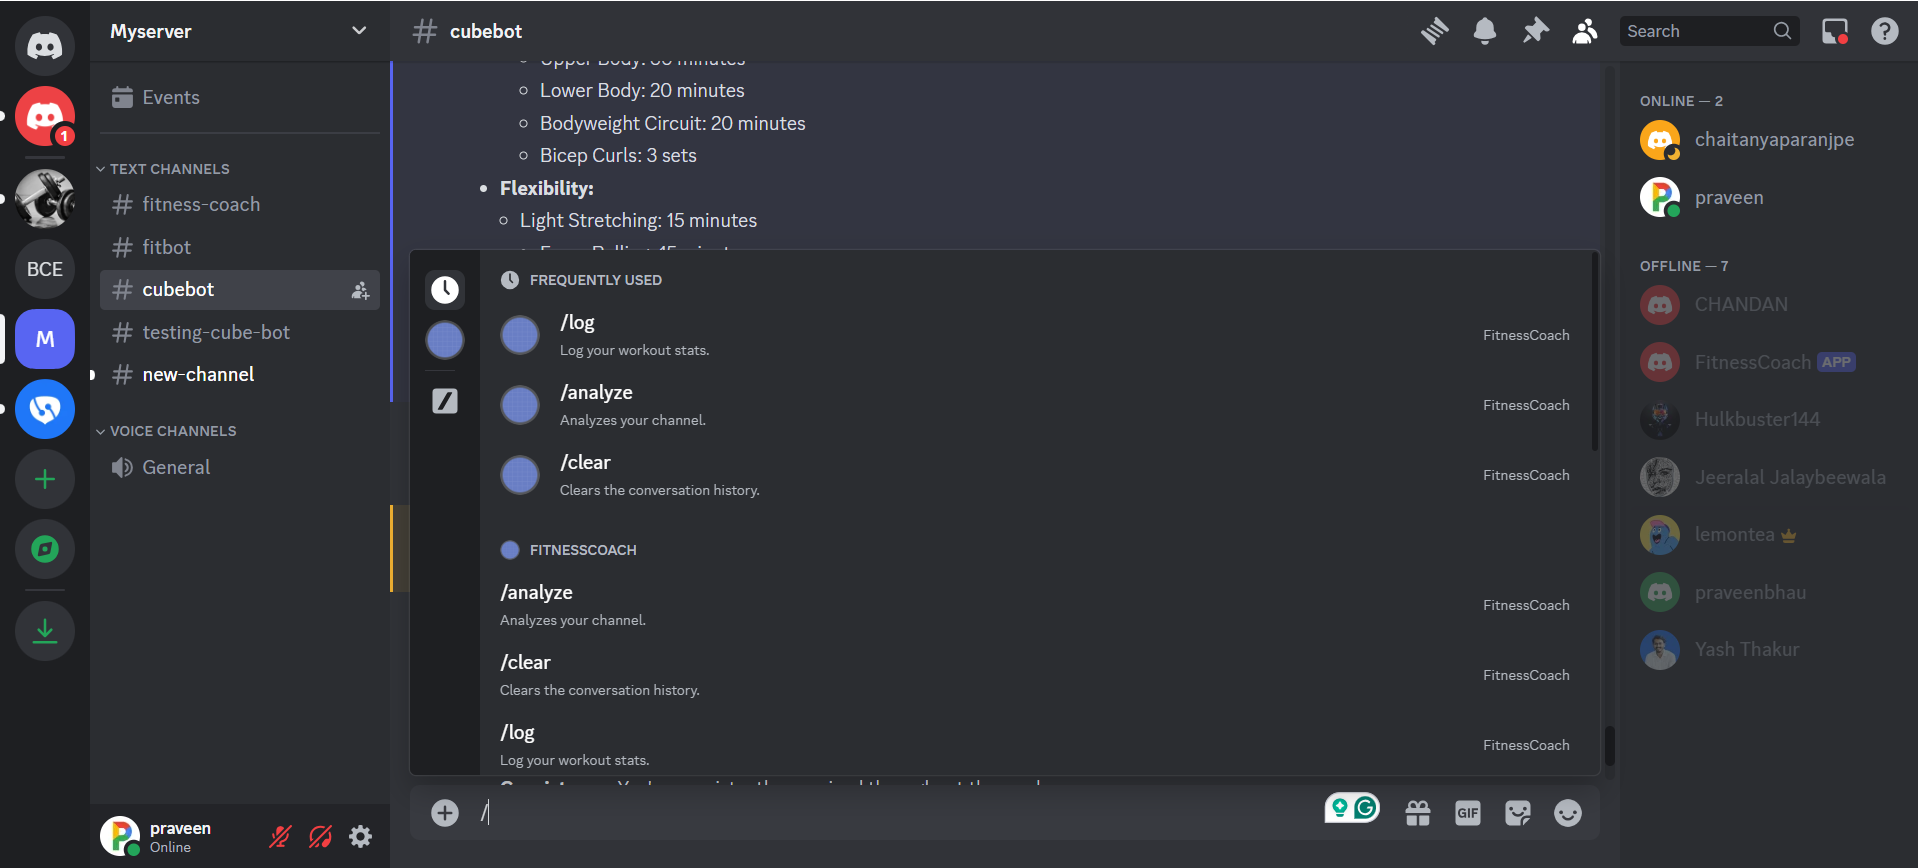
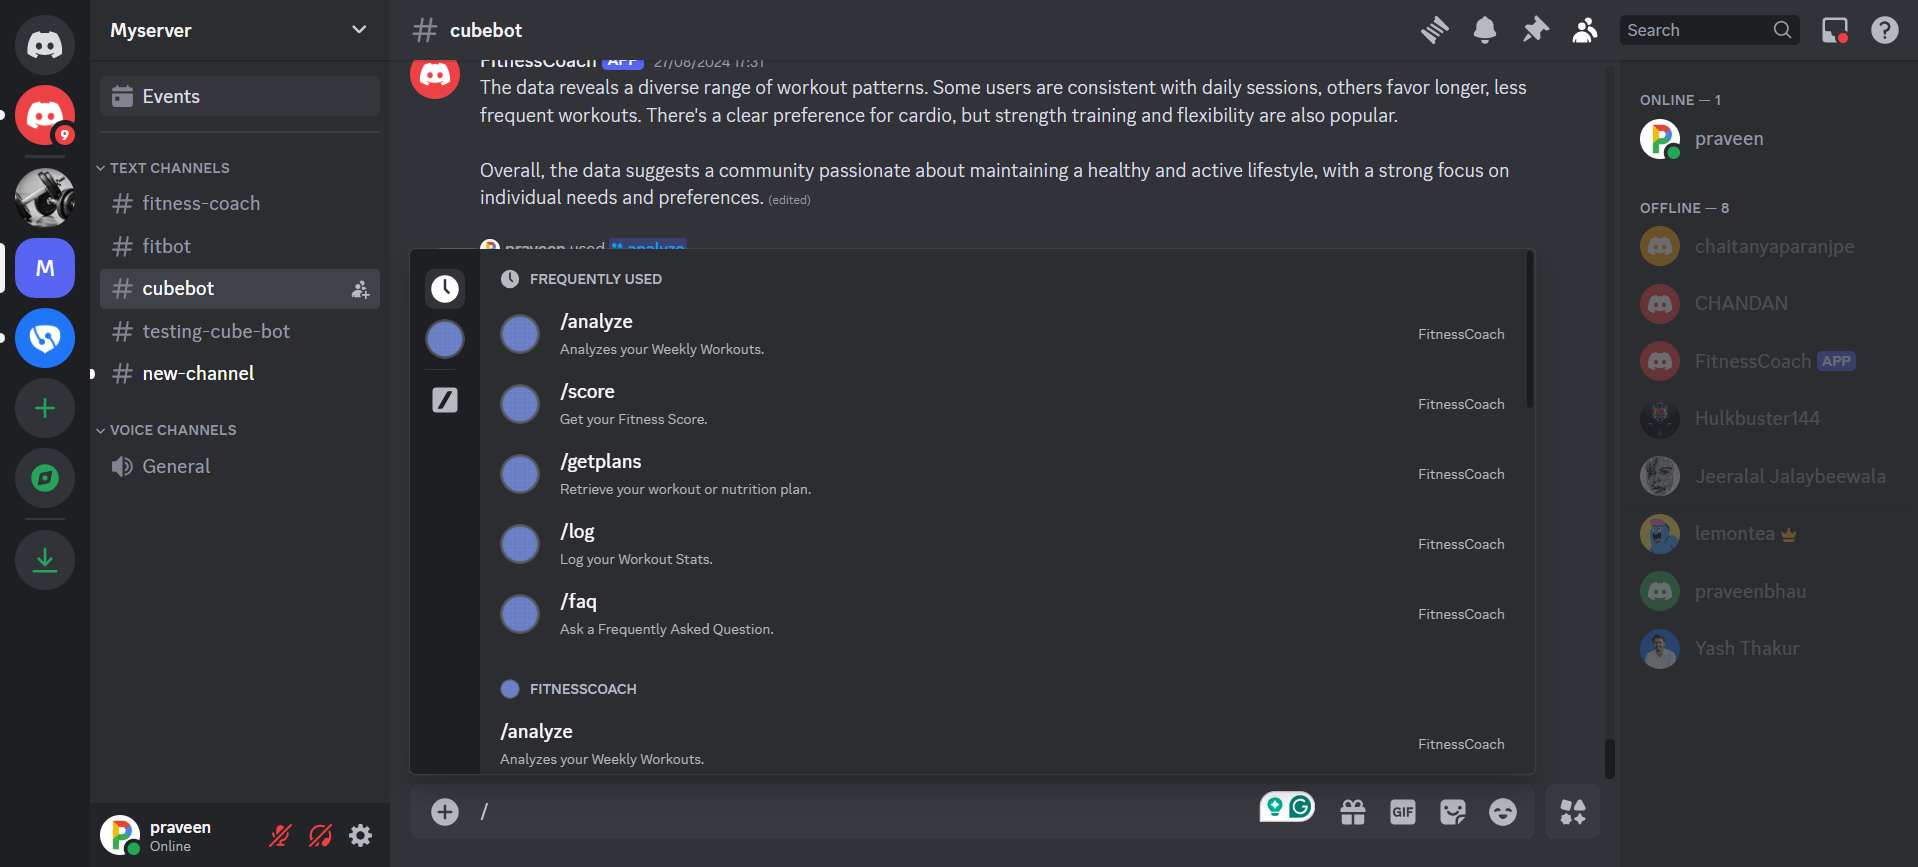
updated readme file

diff --git a/README.md b/README.md
@@ -1,7 +1,6 @@
-# Discord Bot with Google Generative AI (Gemini) Integration
+# Fitness Coach: Gemini Powered Discord Bot
 
-This is a Discord bot that integrates with Google Generative AI, specifically the Gemini model, to provide conversational capabilities. Gemini is Google's largest and most capable AI model. The bot can respond to user messages, maintain conversation history, and perform various commands. 
-
+This is a Discord bot that integrates with Google Generative AI, specifically the Gemini model, to provide advanced conversational capabilities. The bot is designed to assist users with fitness-related queries, workout and nutrition plans, habit tracking, and more.
 
 ## Features
 
@@ -11,9 +10,13 @@ This is a Discord bot that integrates with Google Generative AI, specifically th
   - `/clear`: Clears the conversation history for the current user.
   - `/save`: Saves the conversation history and sends it to the user's inbox.
   - `/logs`: Logs important events and interactions into a database.
-  - `/analyze`: Analyzes the user's workout data and sends a detailed PDF report via DM.
+  - `/analyze <option>`: Analyzes the user's workout data and sends a detailed PDF report via DM. Options include `individual` and `community`.
+  - `/getplans`: Retrieves and sends the user's current workout and nutrition plans.
+  - `/faq`: Provides answers to frequently asked questions about fitness and the bot's functionalities.
+  - `/score`: Provides scores for momentum, daily streak, and max streak for habit tracking.
 - **Presence Status:** Automatically changes the bot's presence status every 30 seconds.
 - **Workout Reminders:** Sends reminders to users if they miss their workout sessions, offering motivation to stay on track.
+- **ICS File Generation:** Generates ICS files for workout and nutrition plans, with daily events reflecting the current date.
 
 ## Screenshots
 
@@ -21,35 +24,41 @@ This is a Discord bot that integrates with Google Generative AI, specifically th
 
 ![Screenshot](screenshots/Screenshot2.png)
 
-## Gemini Discord Bot Setup Guide
+## Fitness Coach: Gemini Powered Discord Bot Setup Guide
 
-This guide will walk you through the process of setting up and running the Gemini Discord Bot on your own server. 
+This guide will walk you through the process of setting up and running the Fitness Coach Discord Bot on your own server.
 
 **Requirements:**
 
-* Node.js and npm (or yarn) installed on your system.
-* A Discord account and a server where you have administrator permissions.
-* A Google account with access to the Generative AI API and a valid API key.
+- Node.js and npm (or yarn) installed on your system.
+- A Discord account and a server where you have administrator permissions.
+- A Google account with access to the Generative AI API and a valid API key.
 
 **Steps:**
 
 1. **Clone the Repository:**
     - Open a terminal or command prompt and navigate to the directory where you want to store the bot's files.
     - Clone the repository using git:
+
     ```bash
     git clone https://github.com/praveensonesha/Discord-FitnessBot.git
     ```
+
     - Navigate to the newly created directory:
+
     ```bash
     cd Discord-FitnessBot
     ```
 
 2. **Install Dependencies:**
-    - Install the required dependencies using npm or yarn:
+    - Install the required dependencies using npm with legacy peer dependencies:
+
     ```bash
-    npm install
+    npm install --legacy-peer-deps
     ```
+
     or
+
     ```bash
     yarn install
     ```
@@ -57,43 +66,49 @@ This guide will walk you through the process of setting up and running the Gemin
 3. **Set up Environment Variables:**
     - Create a file named `.env` in the project's root directory.
     - Add the following environment variables to the file, replacing the placeholders with your actual values:
-    ```
+
+    ```env
     DISCORD_BOT_TOKEN=YOUR_DISCORD_BOT_TOKEN
     DISCORD_CLIENT_ID=YOUR_DISCORD_CLIENT_ID
     GOOGLE_API_KEY=YOUR_GOOGLE_API_KEY
     ```
-    - You can obtain your bot token and client ID from the [Discord Developer Portal](https://discord.com/developers/docs/intro). 
+
+    - You can obtain your bot token and client ID from the [Discord Developer Portal](https://discord.com/developers/docs/intro).
     - The Google API key can be obtained from the [Google AI Studio](https://aistudio.google.com/).
 
-4. **Deploy Slash Commands (Optional):**
-    - This step is only necessary if you want to use slash commands (e.g., `/clear`). 
+4. **Deploy Slash Commands:**
+    - This step is necessary if you want to use slash commands (e.g., /clear).
     - If you don't need slash commands, you can skip this step.
     - In the terminal, run the following command:
+
     ```bash
     node deploy-commands.js
     ```
+
     - This will register the slash commands with your Discord application.
 
 5. **Start the Bot:**
     - In the terminal, run the following command to start the bot:
+
     ```bash
     node index.js
     ```
+
     - The bot will connect to Discord and be ready to interact with users.
 
 **Interacting with the Bot:**
 
-* **Direct Messages:** Send a direct message to the bot to start a conversation.
-* **Mentions:** Mention the bot in a server channel to get its attention.
-* **Slash Commands:** Use the `/clear` command to clear the conversation history.
+- **Direct Messages:** Send a direct message to the bot to start a conversation.
+- **Mentions:** Mention the bot in a server channel to get its attention.
+- **Slash Commands:** Use the `/clear` command to clear the conversation history, `/save` to save and send conversation history, `/logs` to log important events, `/analyze` to get detailed reports, `/getplans` to retrieve workout and nutrition plans, `/faq` to get answers to common questions, and `/score` to check habit tracking scores.
 
 **Additional Notes:**
 
-* You can customize the bot's behavior and responses by modifying the code in the `conversationManager.js` and `config.js` files.
-* The `errorHandler.js` file contains basic error handling logic. You can extend it to implement more robust error handling.
-* Make sure to keep your API keys and bot token secure. Do not share them publicly. 
-* Refer to the [Discord.js documentation](https://discord.js.org/docs/packages/discord.js/14.14.1) and the [Google Generative AI documentation](https://ai.google.dev/docs) for more information on the available features and options. 
+- You can customize the bot's behavior and responses by modifying the code in the `conversationManager.js` and `config.js` files.
+- The `errorHandler.js` file contains basic error handling logic. You can extend it to implement more robust error handling.
+- Make sure to keep your API keys and bot token secure. Do not share them publicly.
+- Refer to the [Discord.js documentation](https://discord.js.org/docs/packages/discord.js/14.14.1) and the [Google Generative AI documentation](https://ai.google.dev/docs) for more information on the available features and options.
 
-**Enjoy using the Gemini Discord Bot!**
+**Enjoy using the Fitness Coach: Gemini Powered Discord Bot!**
 
 Please keep in mind that this project is a work in progress, and breaking changes or new features may be introduced in future updates.
